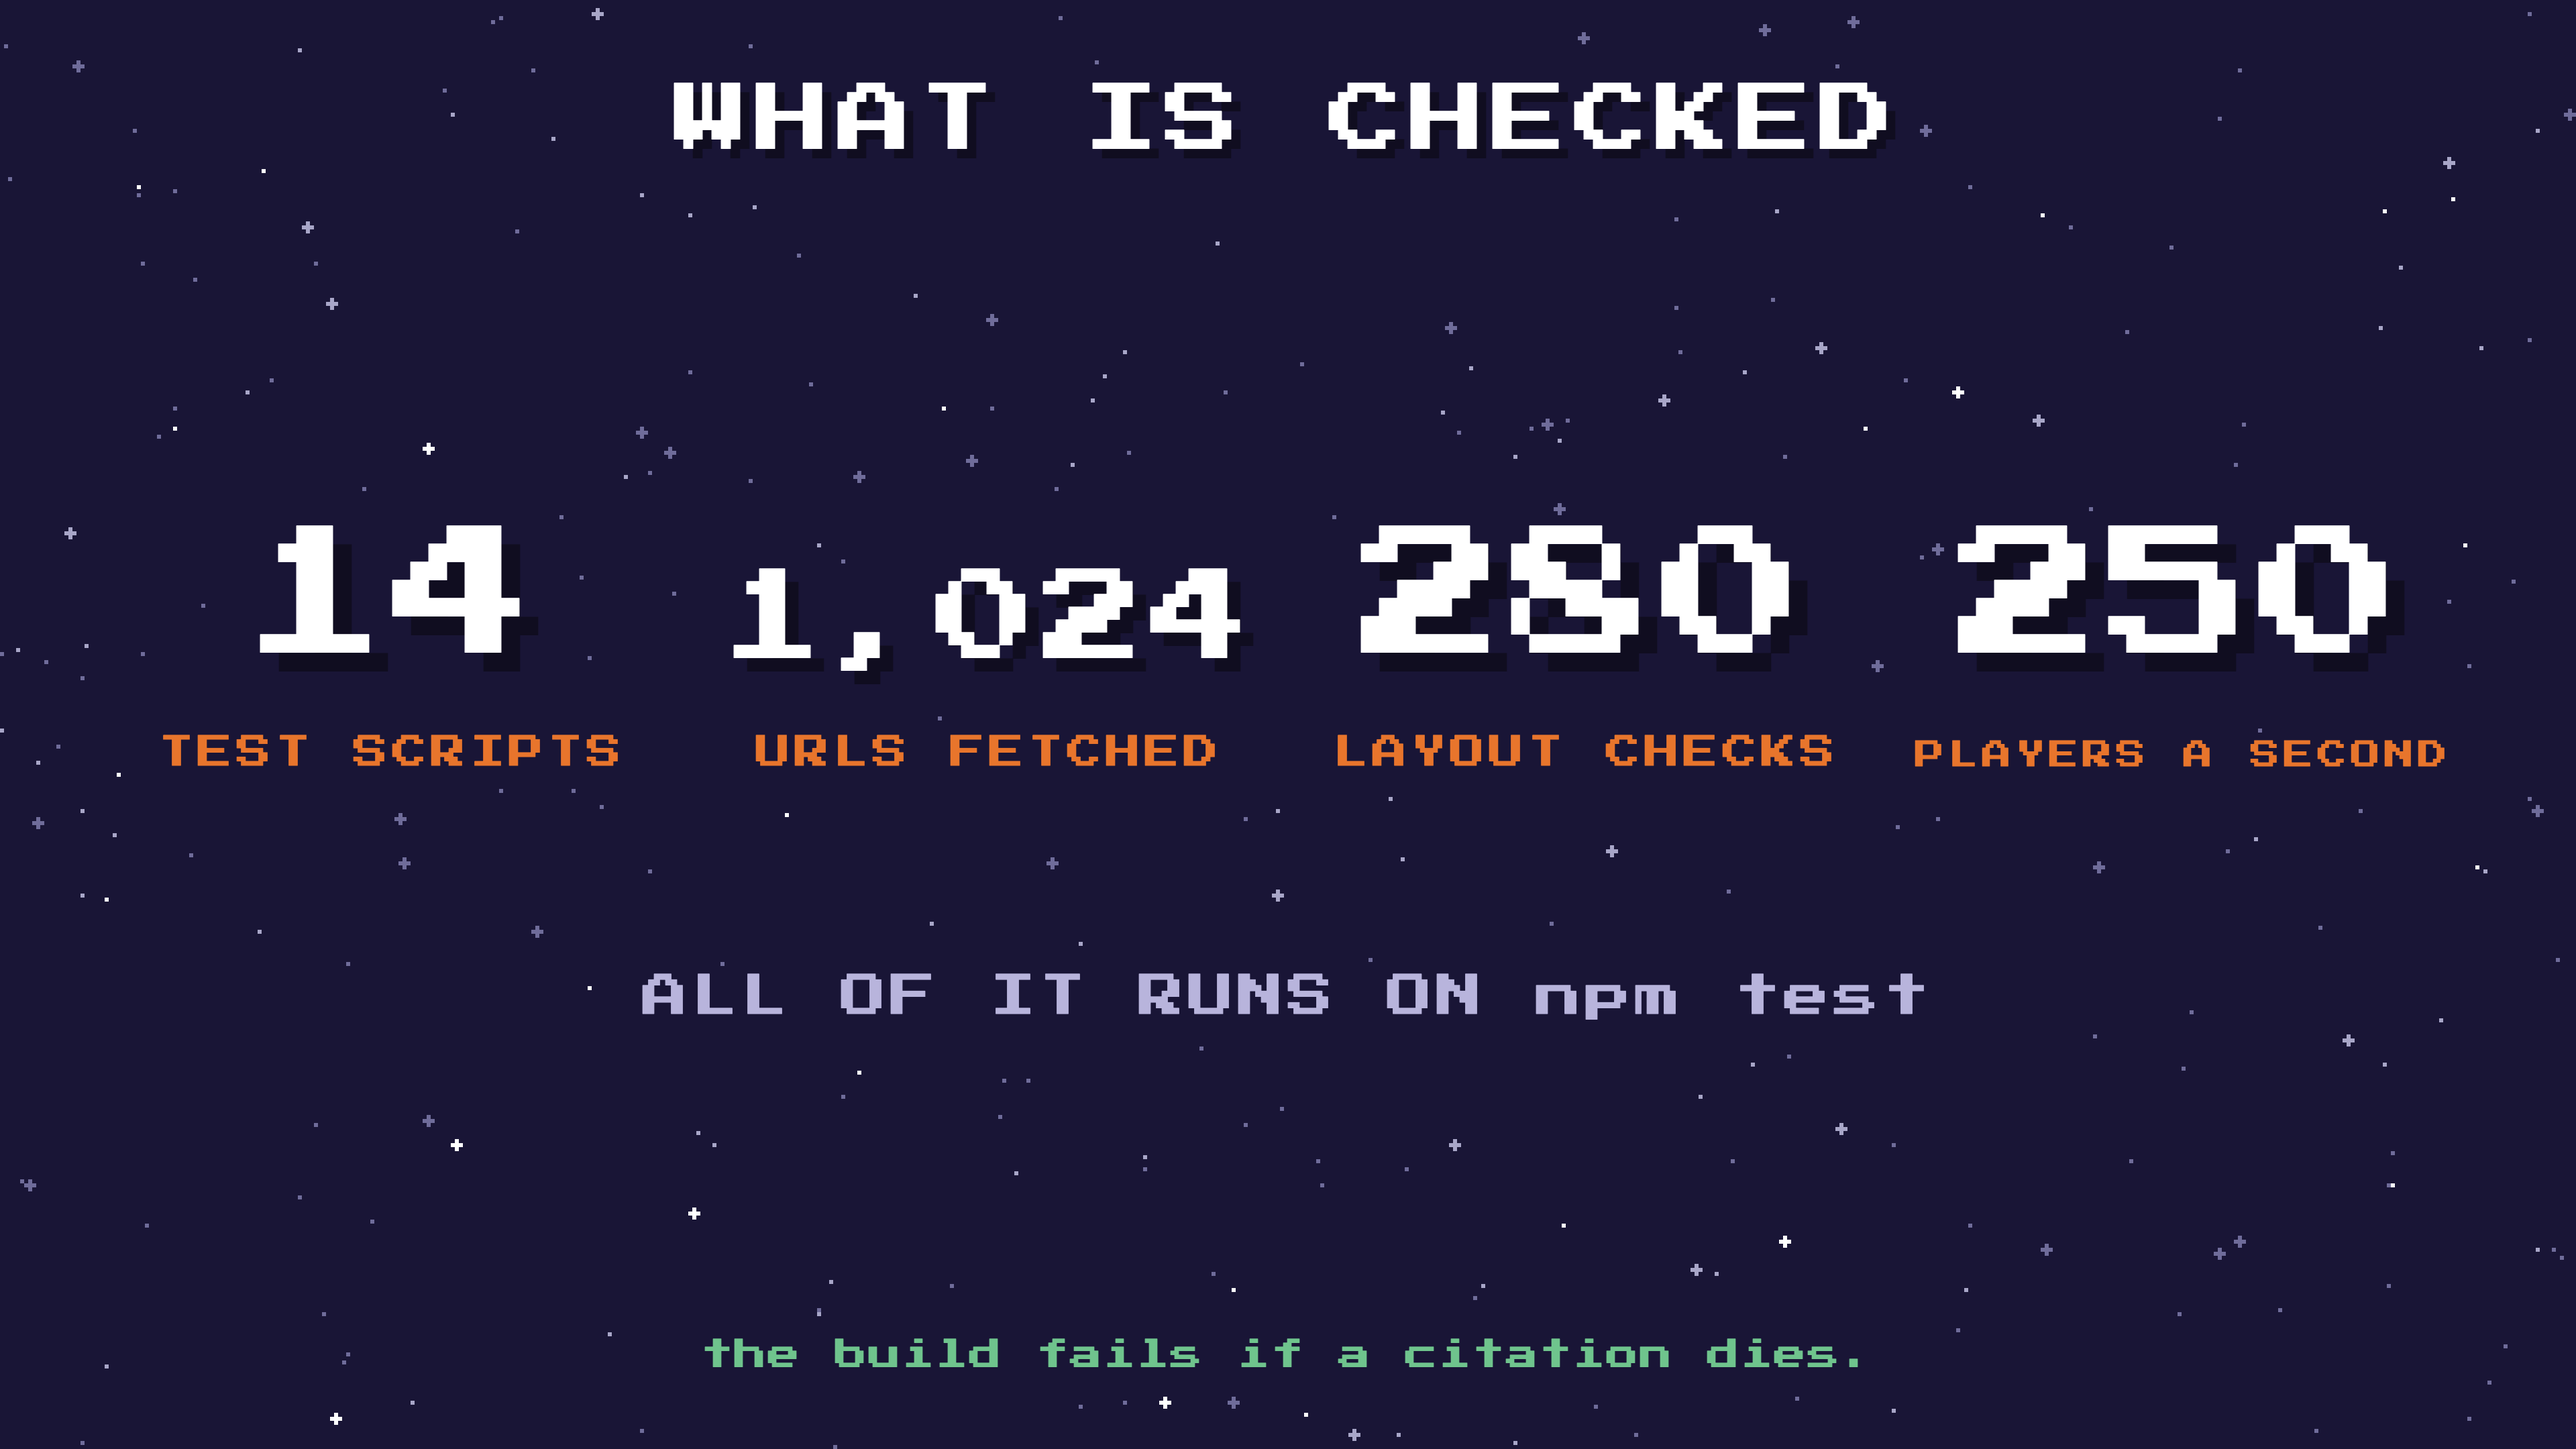
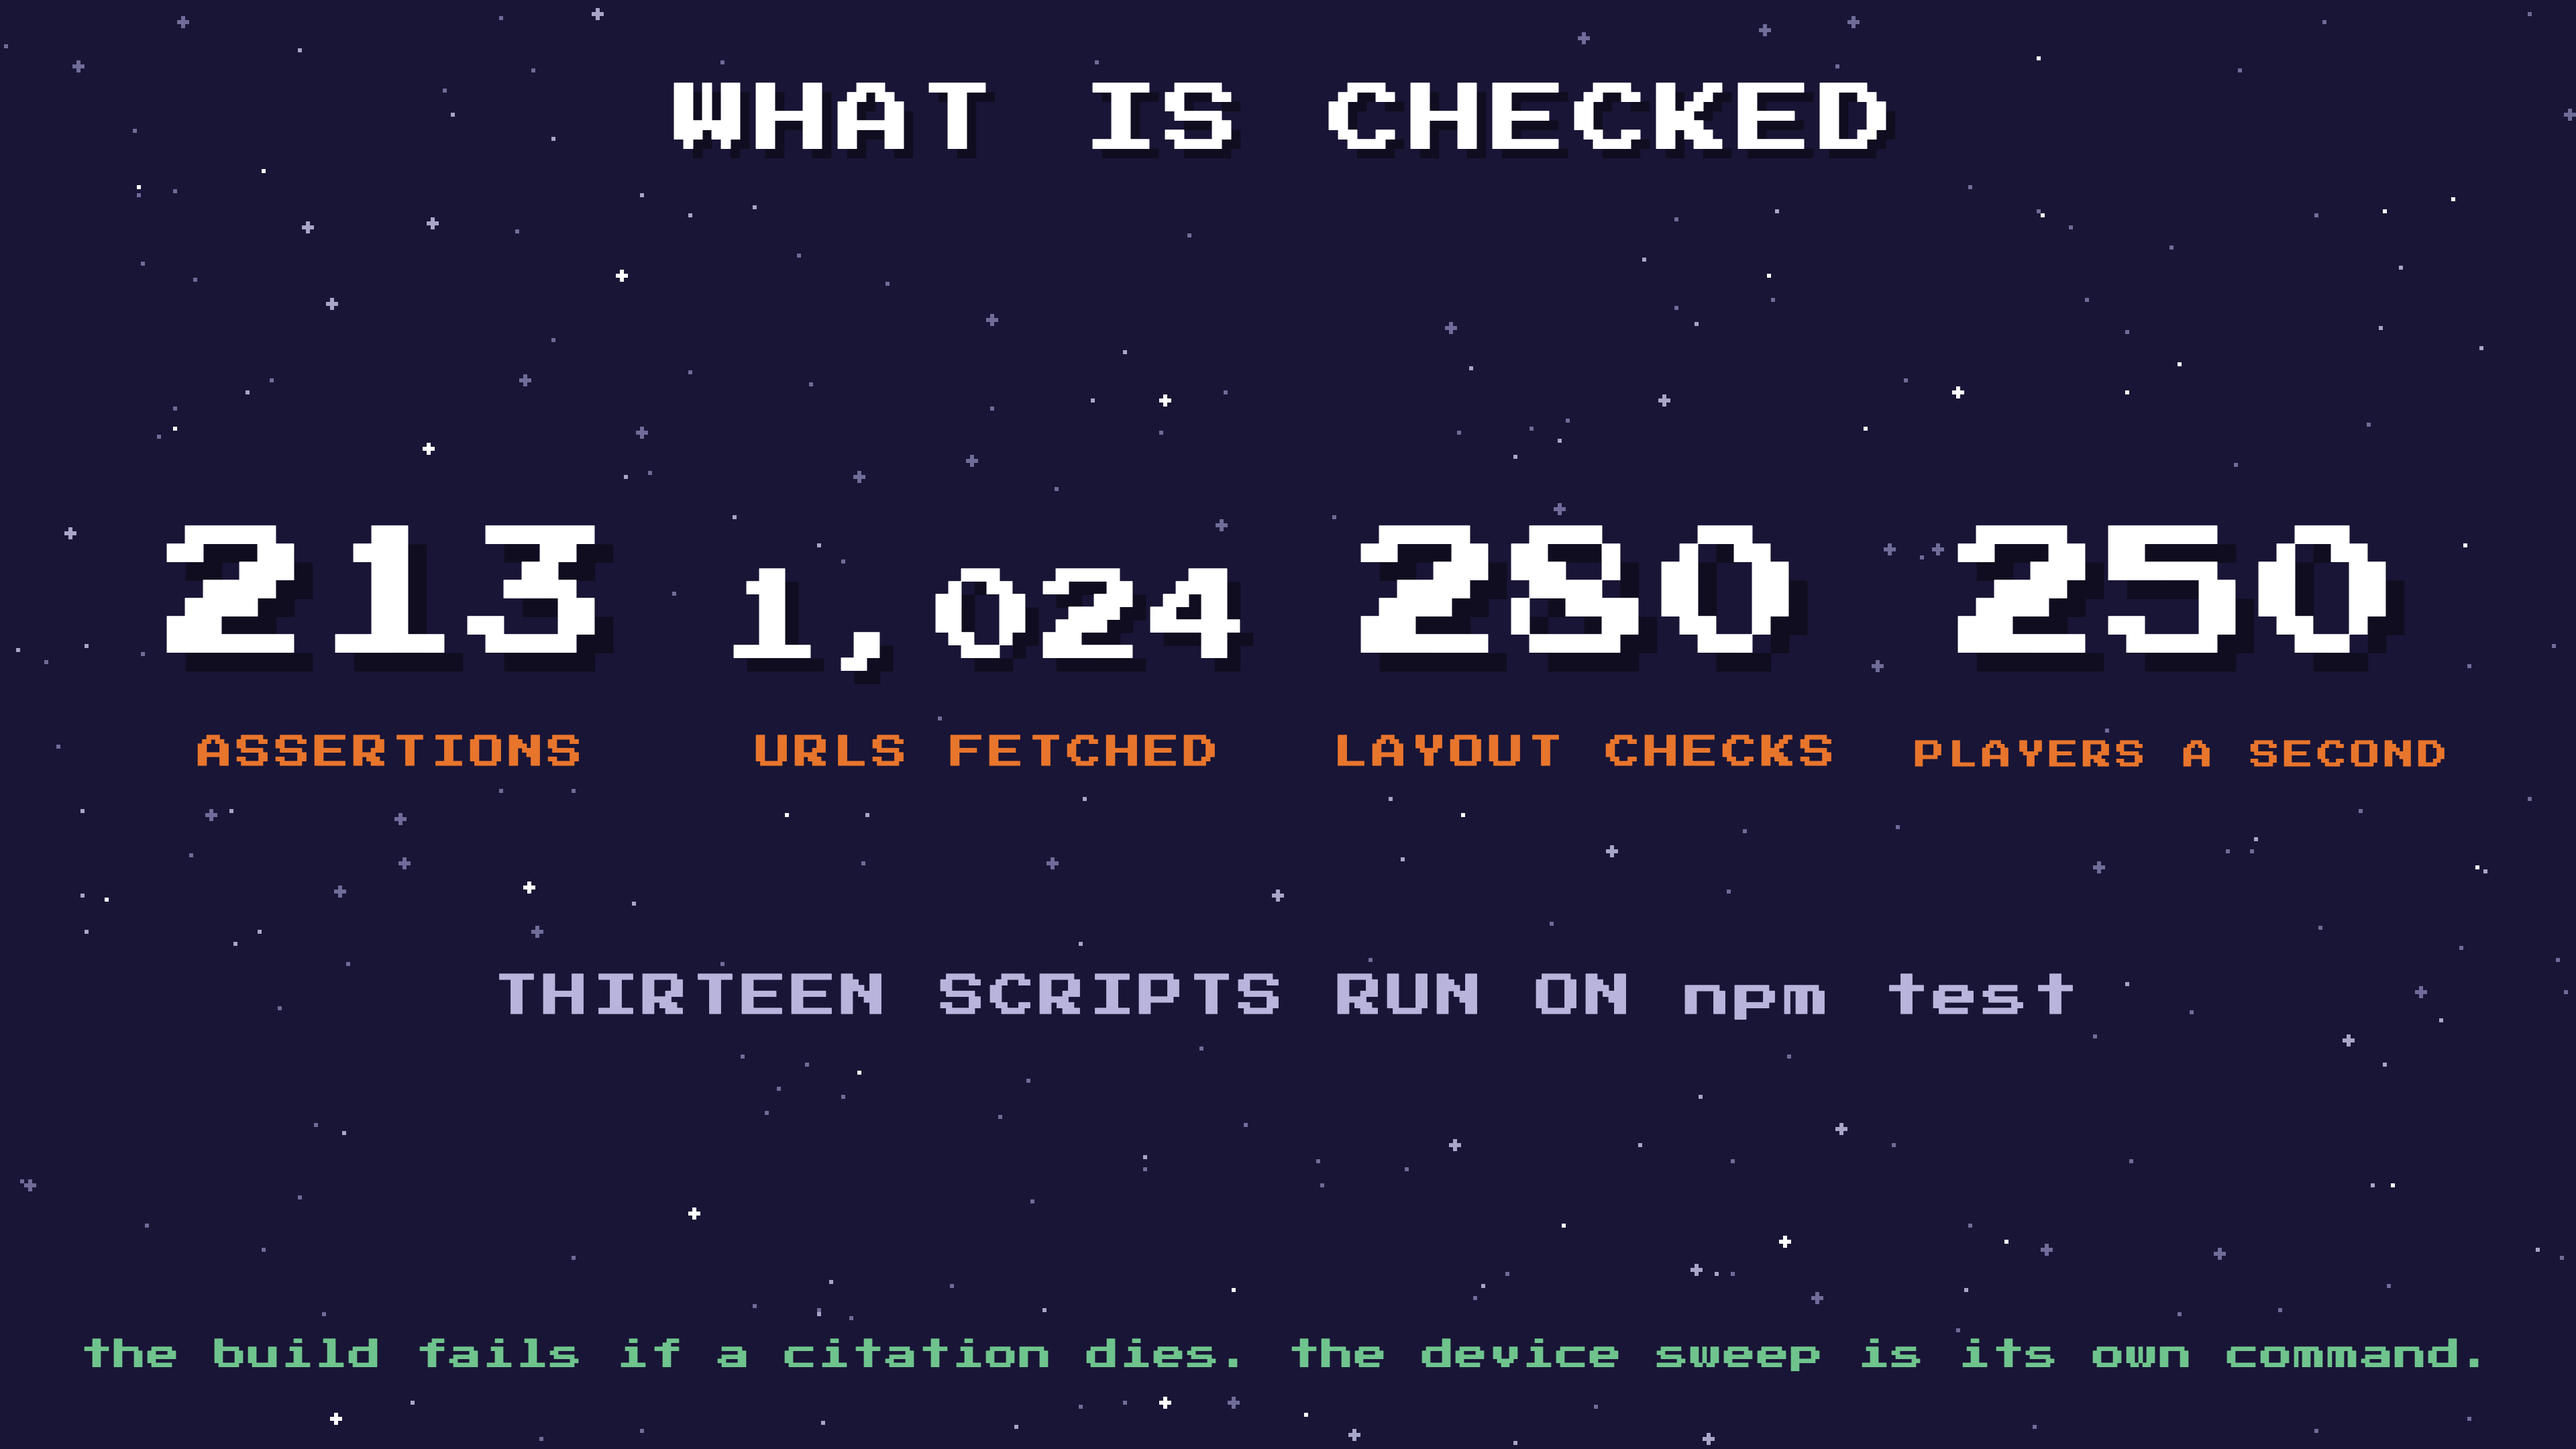
Correct the assertion counts, log the ledger

diff --git a/scripts/diagram.ts b/scripts/diagram.ts
@@ -772,19 +772,28 @@ const honesty = slide(
   61,
 )
 
+/*
+ * MEASURED, NOT REMEMBERED.
+ *
+ * 213 is the sum of the "N passed" lines from a real `npm test` run on
+ * 2026-09-13; 280 is devicetest's 14 devices x 5 screens x 4 assertions, which
+ * is a SEPARATE command and does not run on `npm test` — the old footer here
+ * said "14 scripts, the build fails if any of them does", and the fourteenth
+ * is the one the build never runs.
+ */
 const checks = slide(
   'WHAT IS CHECKED',
   () =>
     figures(
       [
-        ['14', 'TEST SCRIPTS'],
+        ['213', 'ASSERTIONS'],
         [n(FACTS.urls), 'URLS FETCHED'],
         ['280', 'LAYOUT CHECKS'],
         ['250', 'PLAYERS A SECOND'],
       ],
       500,
-    ) + text(W / 2, 760, 'ALL OF IT RUNS ON npm test', 34, MUTED, { spacing: 3 }),
-  'the build fails if a citation dies.',
+    ) + text(W / 2, 760, 'THIRTEEN SCRIPTS RUN ON npm test', 34, MUTED, { spacing: 3 }),
+  'the build fails if a citation dies. the device sweep is its own command.',
   77,
 )
 
@@ -983,7 +992,7 @@ const tests = slide(
     })
     return out.join('')
   },
-  `${14} scripts. the build fails if any of them does.`,
+  '13 run on npm test. devicetest.mjs is its own sweep, and finds different bugs.',
   191,
 )
 

diff --git a/PROGRESS.md b/PROGRESS.md
@@ -1026,3 +1026,81 @@ Data: `numbers`, `count`, `graph`, `depth`, `chain`, `honesty`. Art: `icons`,
 
 Running order with what to say over each: `docs/SLIDES.md`. Eight acts, about
 ten minutes, and a ninety-second cut (`point` → `wrong` → `fence` → `honesty`).
+
+## Ledger — 2026-09-13, 00:30
+
+### done, with the check that proved it
+
+- **Tech slide** (`diagram-tech`) — rendered and viewed; versions read from the
+  installed packages, not from `package.json` ranges.
+- **Corner glitch** — `stepped()` now emits three points a tread. Re-rendered
+  and inspected at full size; the triangular slivers are gone.
+- **Stars behind type** — every `text()`/`key()` reserves its box before the sky
+  is generated. Verified across all 32 renders on the contact sheet.
+- **Overflowing text** — `fit()` applied to titles, equation cells, figures,
+  tile roles and footers. Two footers that ran off the frame now fit.
+- **"twenty-four steps from nothing…"** and **"one silhouette, one colour…"** —
+  removed; `grep` over `scripts/` and `docs/slides/svg/` returns nothing.
+- **Number accuracy** — 36 rules (was 37), 14 things with a second route (was
+  "15 things"), 1,033 icons = 963 composed + 70 hand-drawn, 1,033 things = 12
+  starters + 1,021 made, 1,036 recipes = 1,021 outputs + 15 alt routes. All
+  computed in `FACTS` from `GAME_DATA`, not typed in.
+- **Bundle size** — was "898 KB" (bytes/1000) beside "514 KB" (bytes/1024) on
+  the next slide. Now measured off `dist/` in KiB: **877 KB**.
+- **Assertion count** — ran `npm test`: **213 passed, 0 failed**. `SCRIPT.md`
+  said 312; corrected. The 280 device checks are a separate command and the
+  slide now says so.
+- **32 slides**, running order in `docs/SLIDES.md`, eight acts, ~10 minutes.
+- **docs cleanup** — PNGs in `docs/slides/`, SVG sources in `docs/slides/svg/`.
+  `docs/` root is now six markdown files plus `art-source/`. No off-theme
+  duplicates were found to delete: every slide comes from one generator.
+- **Arousal table** — the `~/Downloads` copy was byte-identical (SHA-256) to the
+  one committed in `dread` at `58ca446`, so the duplicate was deleted.
+- **Pushed** — `git status -sb` shows `## main...origin/main`, no divergence.
+
+### open
+
+- **GoDaddy domain** — 20 minutes, needs Leo's account. Do it *after* the link
+  is confirmed reachable.
+- **Devpost writeup**, every challenge box ticked. Leo's.
+- **The video.** Leo's.
+- **Bundle split** — 877 KB in one file. Deliberately deferred past filming.
+- **Challenges / local records** — decided tonight to leave until after
+  submission. Estimate written below.
+
+### blocked
+
+- **The live site returns HTTP 403 from this network**, `x-vercel-mitigated:
+  challenge`, fallout from the k6 run aimed at production. Cannot verify the
+  deployed bundle hash or the live API from here until it clears. Needs Leo to
+  test from cellular and from the hackathon wifi, and to check Vercel's Firewall
+  panel. **This is very likely what "its not updated on vercel" actually was.**
+- **README** — a teammate is editing it; not touched.
+- **Moving `DIRECTION`/`GAMEPLAN`/`PROGRESS`/`WALKTHROUGH` under `docs/`** —
+  waits on that same teammate.
+- **MathWorks** — conditional on someone doing 40–60 hand-read footprint
+  figures. Not started.
+
+### the challenges estimate, since Leo asked
+
+Two shapes, very different costs.
+
+**The cheap one — a list, not a realm. 60–90 minutes.** A challenge is a named
+set of target element ids checked against what the player has already
+discovered in Everything. No new starters, no new save shape, no new game mode:
+one screen that reads the data already there, the way the inventory does. Ten
+challenges is then mostly *choosing* the targets, and the solver can verify each
+set is reachable.
+
+**The real one — a third realm with its own starters. 3.5–4.5 hours.** A new
+realm means a new save key and a migration (which `edgetest.ts` will
+immediately have opinions about), a third column on the title screen, per-
+challenge progress, and a device sweep afterwards. That is the honest number
+and it is the wrong four hours before a 9:00 submission.
+
+On the starter question: yes. Survival opens with **Stone, Wood, Plant Fibre**.
+Everything opens with those three plus **Water, Soil, Limestone, Bauxite, Iron
+Ore, Crude Oil, Natural Gas, Beeswax, Textile Waste** — twelve. A challenge set
+would sit between the two: the three plus water and whichever two or three ores
+the target chain actually needs, so the chain is findable rather than a
+scavenger hunt.

diff --git a/docs/SCRIPT.md b/docs/SCRIPT.md
@@ -109,15 +109,20 @@ one; almost none can say what theirs is not allowed to do.
   hand-draws a thousand sprites. The tradeoff is that two things sharing a
   shape rely on colour, so a minimum separation is enforced by the test suite.
 - **Everything is measured, not eyeballed.** At this size you cannot see a
-  regression: 312 assertions and a sweep of 14 screen sizes catch what looking
+  regression: 213 assertions on `npm test`, plus a 280-check sweep of 14 screen sizes, catch what looking
   cannot.
 
 ## 6. Design — 40 seconds, and every beat has a picture
 
-> Seven diagrams live in `docs/`, all generated by `npm run diagram` from the
-> real data, in the game's own vocabulary: same stepped corners, same hard
-> bands, same palette, same font, no blur and no gradient. The icons in them
-> are the actual sprites, not an artist's impression.
+> Thirty-two diagrams live in `docs/slides/`, with the full running order and
+> what to say over each in `docs/SLIDES.md`. The seven named below are the ones
+> this section needs; the rest are for the questions afterwards. All of them are
+> generated by `npm run diagram` from the real data, in the game's own
+> vocabulary: same stepped corners, same hard bands, same palette, same font, no
+> blur and no gradient. The icons in them are the actual sprites, not an
+> artist's impression.
+
+
 
 **ON SCREEN: `diagram-stack.png`** — as you say why it is frontend-heavy.
 Three keys: the browser, the two functions, Gemini. The fence is the green line
